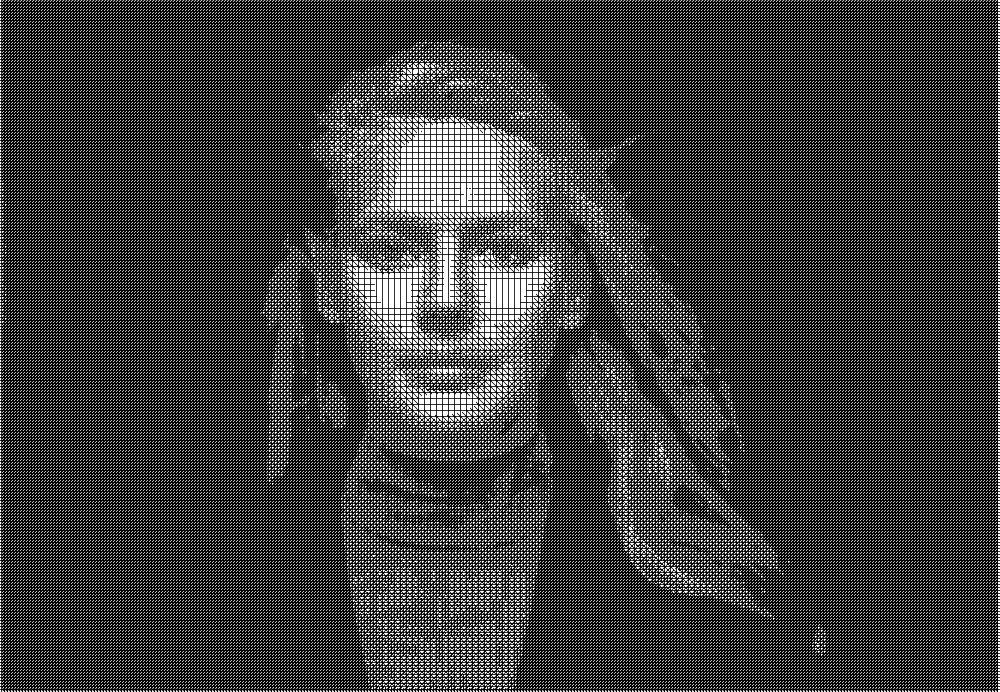
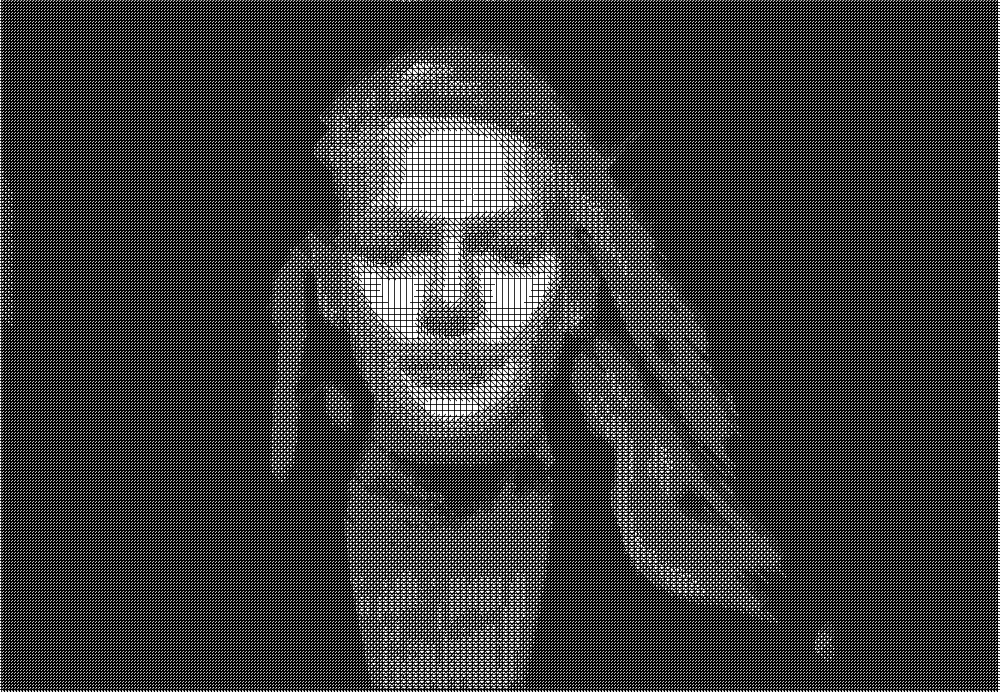
last

diff --git a/faceFX.py b/faceFX.py
@@ -10,7 +10,7 @@ except:
     pt = Image.open("img/portrait.png")
 
 width = 1000;
-scheme = 5;
+scheme = 15;
 pt = pt.resize((width, int(pt.size[1] * width / pt.size[0])))
 portix = pt.load()
 
